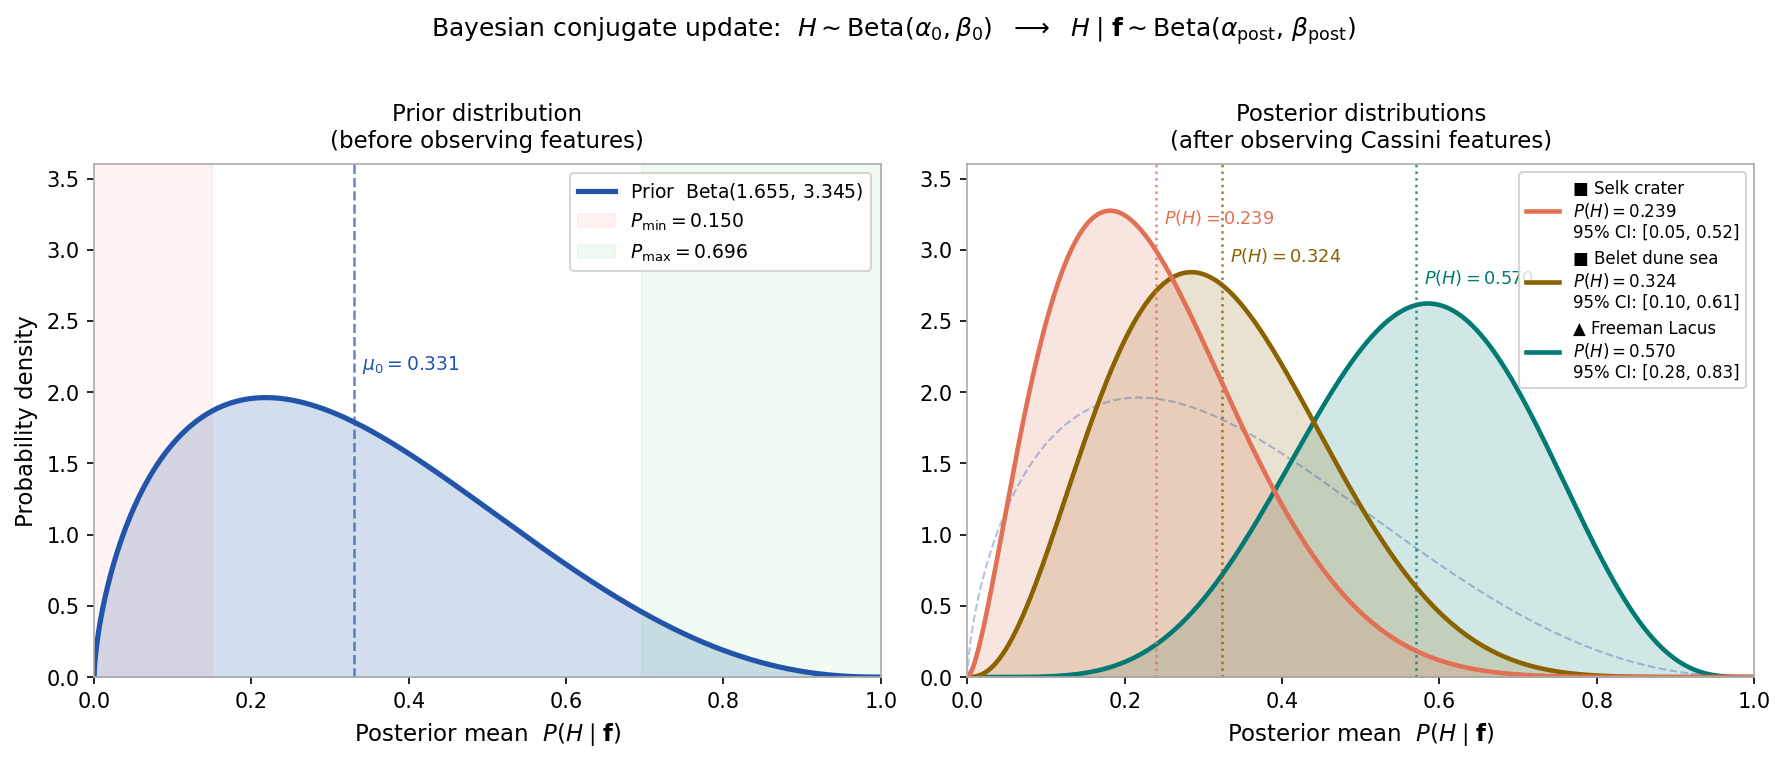
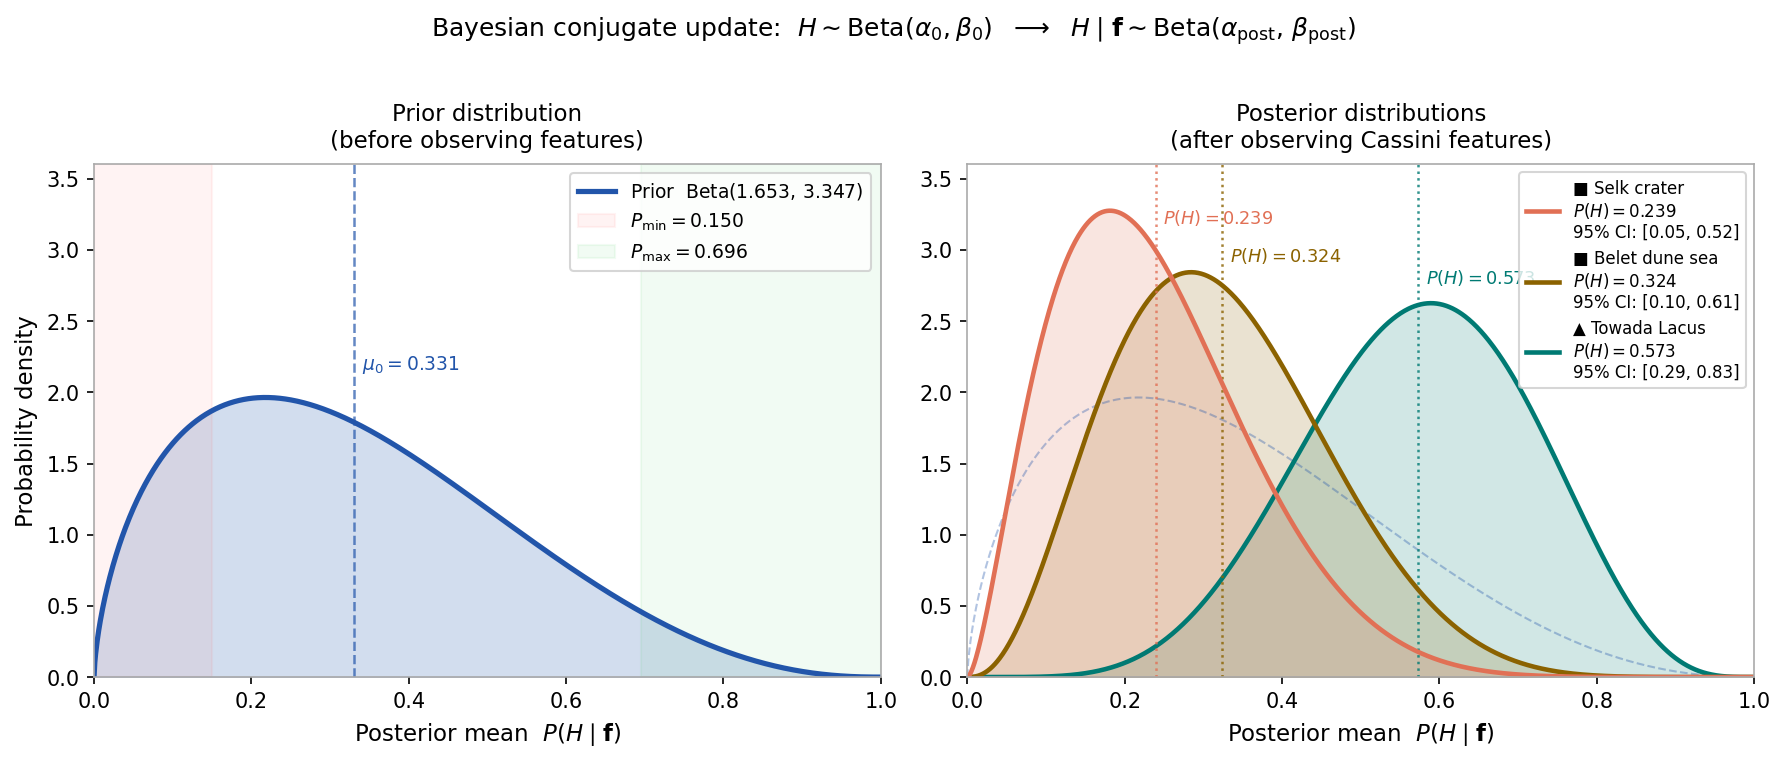
Regenerate stale Beta figures (Freeman->Towada) + fix appendix site count
Both Beta figures were stale: the generating scripts had been updated to the
post-lake-fix #1 site (Towada Lacus, P(H)=0.573) but the committed PNGs still
showed the old Freeman Lacus (0.570) -- contradicting the methods worked example.
Regenerated fig_bayesian_update.png and beta_update_figure.png from the current
scripts (now Towada/Belet/Selk, 3 sites).

Also: fixed an unrounded mu_0 label in generate_bayesian_diagram.py
({MU0} -> {MU0:.3f}, was rendering "0.33059999999999995"); and
appendix_bayes_pedagogy.tex:90 "four representative sites" -> "three" to match
the figure (which shows three: Towada, Belet, Selk).

diff --git a/thesis/appendix_bayes_pedagogy.tex b/thesis/appendix_bayes_pedagogy.tex
@@ -87,7 +87,7 @@ showing how each successive feature narrows and displaces the Beta
 distribution from the prior to the final posterior.  The figure also
 shows the 95\%~CI for eight key present-epoch sites.
 
-Figure~\ref{fig:bayes_update} illustrates this update graphically for four
+Figure~\ref{fig:bayes_update} illustrates this update graphically for three
 representative sites.  The left panel shows the prior
 $\mathrm{Beta}(\alpha_0, \beta_0)$, which is weakly informative
 ($\sigma \approx 0.19$) and centred at $\mu_0 = 0.331$.  The right panel

diff --git a/scripts/generate_bayesian_diagram.py b/scripts/generate_bayesian_diagram.py
@@ -101,7 +101,7 @@ def main() -> None:
     ax.fill_between(x, prior_pdf, alpha=0.20, color="#2255aa")
     ax.axvline(MU0, color="#2255aa", ls="--", lw=1.2, alpha=0.7)
     ax.text(MU0 + 0.01, max(prior_pdf) * 1.1,
-            rf"$\mu_0 = {MU0}$", color="#2255aa", fontsize=9)
+            rf"$\mu_0 = {MU0:.3f}$", color="#2255aa", fontsize=9)
     # Mark P_min and P_max
     p_min = ALPHA0 / (KAPPA + LAMBDA)
     p_max = (ALPHA0 + LAMBDA) / (KAPPA + LAMBDA)
